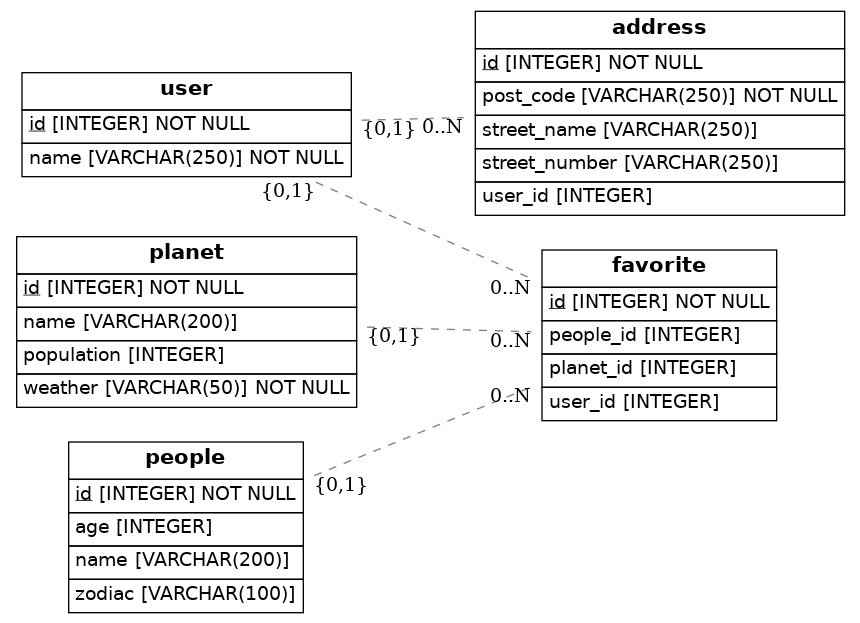
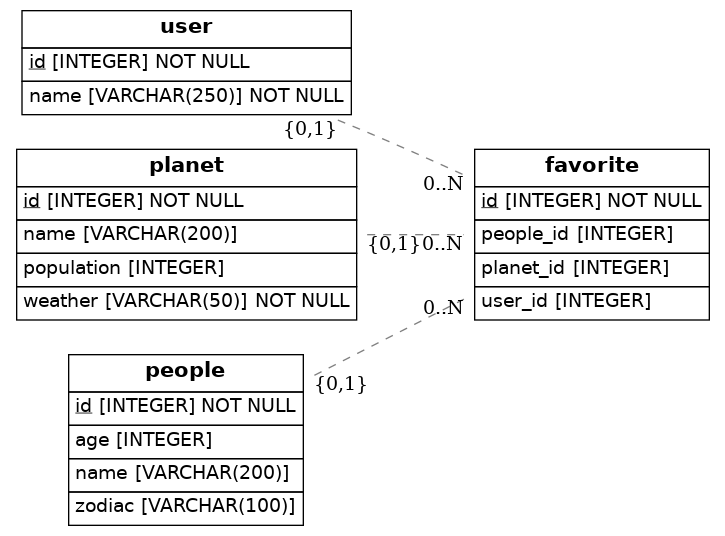
elimine addres

Changed region(s): [[0.0, 0.0, 1.0, 1.0], [0.4552, 0.0597, 0.4855, 0.1194], [0.971, 0.5672, 1.0, 0.597]]

diff --git a/src/models.py b/src/models.py
@@ -15,19 +15,7 @@ class User(Base):
     name = Column(String(250), nullable=False)
 
 
-class Address(Base):
-    __tablename__ = 'address'
-    # Here we define columns for the table address.
-    # Notice that each column is also a normal Python instance attribute.
-    id = Column(Integer, primary_key=True)
-    street_name = Column(String(250))
-    street_number = Column(String(250))
-    post_code = Column(String(250), nullable=False)
-    user_id = Column(Integer, ForeignKey('user.id'))
-    user = relationship(User)
 
-    def to_dict(self):
-        return {}
 
 class Planet(Base):
     __tablename__="planet"
